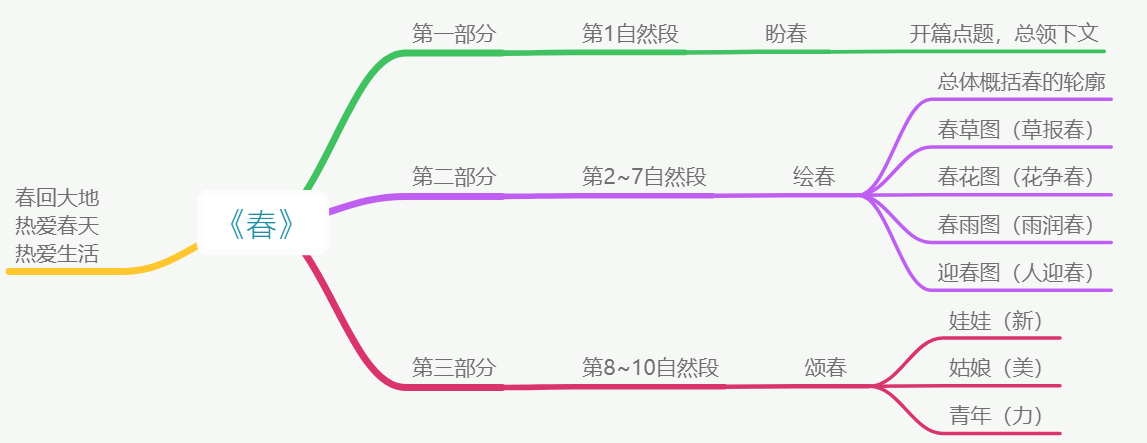
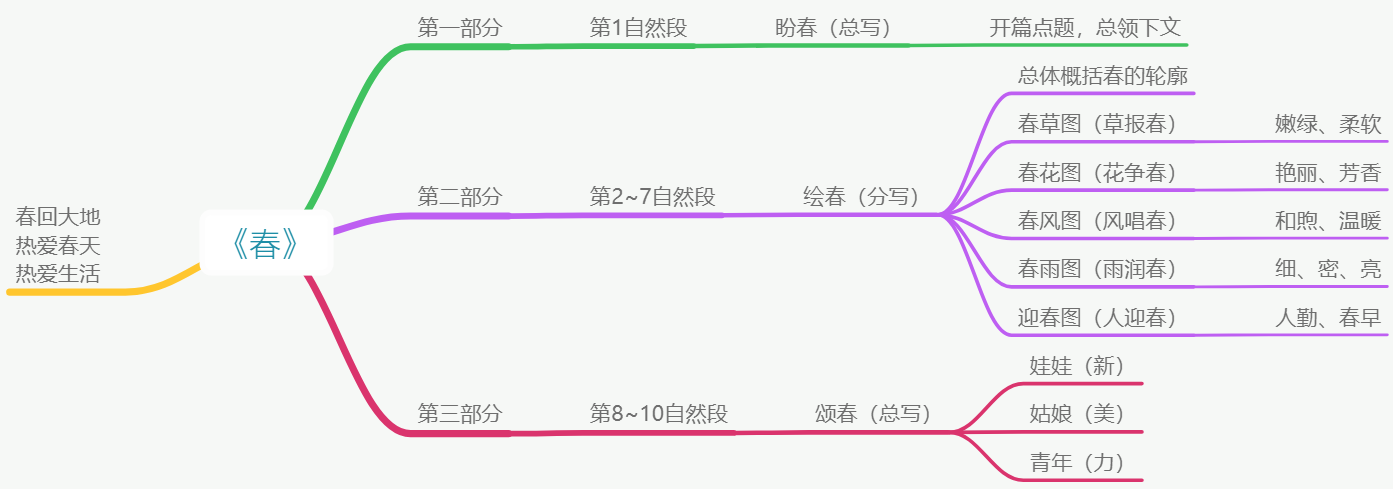
1

Changed region(s): [[0.1526, 0.0293, 1.0, 0.9977], [0.0, 0.4108, 0.1831, 0.6456]]

diff --git a/_posts/2018-09-06-《春》朱自清.md b/_posts/2018-09-06-《春》朱自清.md
@@ -6,34 +6,35 @@ categories: blog
 tags: 网络转文
 description: 远离群体，说不定有「上帝视角」。
 ---
-**有涉及隐私的内容会选择隐藏**  
+**有涉及隐私的内容会选择隐藏**   
+### 正课前的基本准备
 题目：《春》  
 文学体裁：诗歌、散文、小说、戏剧
 散文分类：叙事散文、抒情散文、议论散文  
-散文特点：“形散神聚”、“形散”主要指取材广泛自由，表现手法不拘一格，“神聚”主要是从散文的立意方面说的，即散文所要表达的主题必须明确而集中，无论散文的内容多么广泛，表现手法多么灵活，无不为更好地表达主题服务。
-常用修辞手法：比喻、夸张、排比、反复、对比、比拟、反问、设问  
+散文特点：“形散神聚”、“形散”主要指取材广泛自由，表现手法不拘一格，“神聚”主要是从散文的立意方面说的，即散文所要表达的主题必须明确而集中，无论散文的内容多么广泛，表现手法多么灵活，无不为更好地表达主题服务。  
+常用修辞手法：比喻、夸张、排比、反复、对比、比拟、反问、设问、映衬    
 作者：朱自清、散文家、诗人  
 作者代表作：《春》《绿》《背影》《荷塘月色》  
 文章生词（默写、读音、意思）：  
-朗润lang3run4    
-蜜蜂嗡嗡weng1   
+朗润lang3run4：明亮滋润。朗，明亮。润，滋润，润泽。      
+蜜蜂嗡嗡weng1：蜜蜂发出声响。     
 酝酿yun4niang4：本义是指酒的发酵过程，这里指各种气息在空气里，像发酵似的   
-窠巢ke1chao2  
+窠巢ke1chao2：鸟兽昆虫的窝。  
 呼朋引伴hu1peng2yin3ban4  
-宛转wan3zhuan3  
+宛转wan3zhuan3：形容声音抑扬动听。现在写作“婉转”  
 嘹亮liao2liang4  
 薄烟bo2yan1  
-黄晕yun4  
+黄晕yun4：昏黄，不明亮  
 烘托hong1tuo1  
 撑伞cheng1  
 蓑笠suo1li4  
-静默   
-抖擞sou3  
-一年之计在于春，一日之计在于晨  
-花枝招展  
+静默：静静无声的样子   
+抖擞sou3：振作  
+一年之计在于春，一日之计在于晨：  
+花枝招展：形容女子打扮得十分艳丽。这里比喻姿态优美。  
 胳膊ge1bo1  
 腰脚  
-健壮  
+健壮：身形强壮有力的样子    
 风筝zheng1  
 喉咙hou2long2  
 卖弄  
@@ -55,8 +56,6 @@ description: 远离群体，说不定有「上帝视角」。
 撩 liao2 撩拨
 ### 文章结构   
 ![img](/img/pic/春1.png)  
-### 常用修辞手法   
-比喻、夸张、排比、反复、设问、反问、比拟、对比、映衬、
 ### 修辞手法   
 比喻=明喻+暗喻+借喻  
 看，像牛毛，像花针，像细丝，密密地斜织着，人家屋顶上笼着一层薄烟。  
